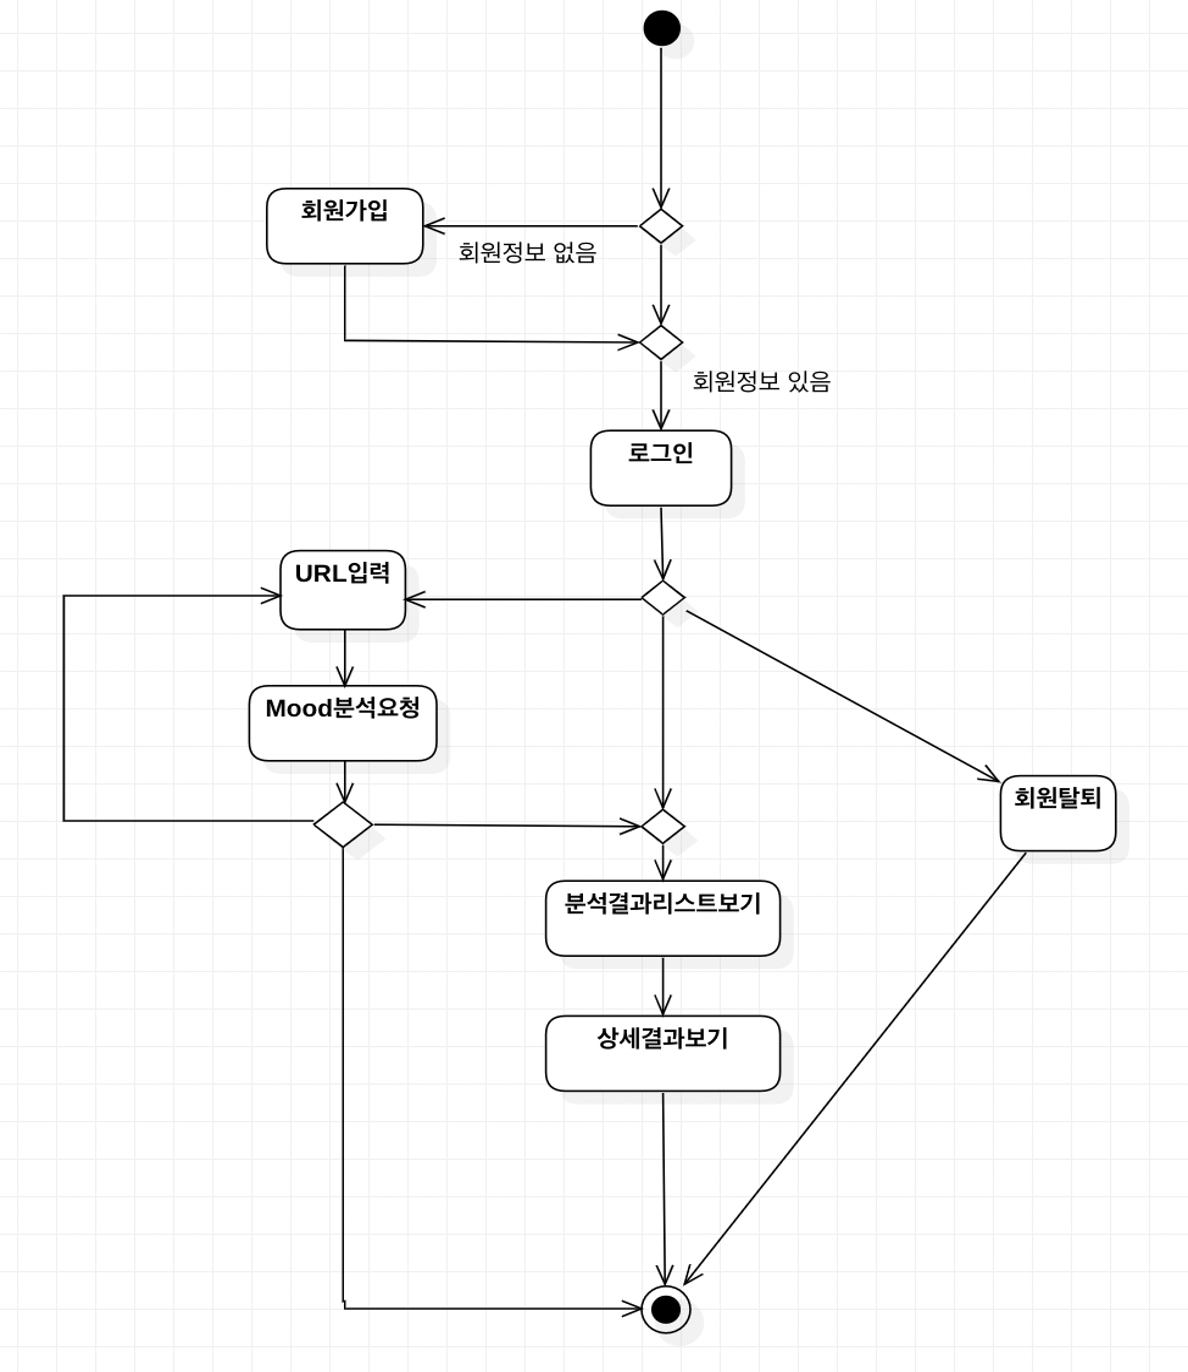
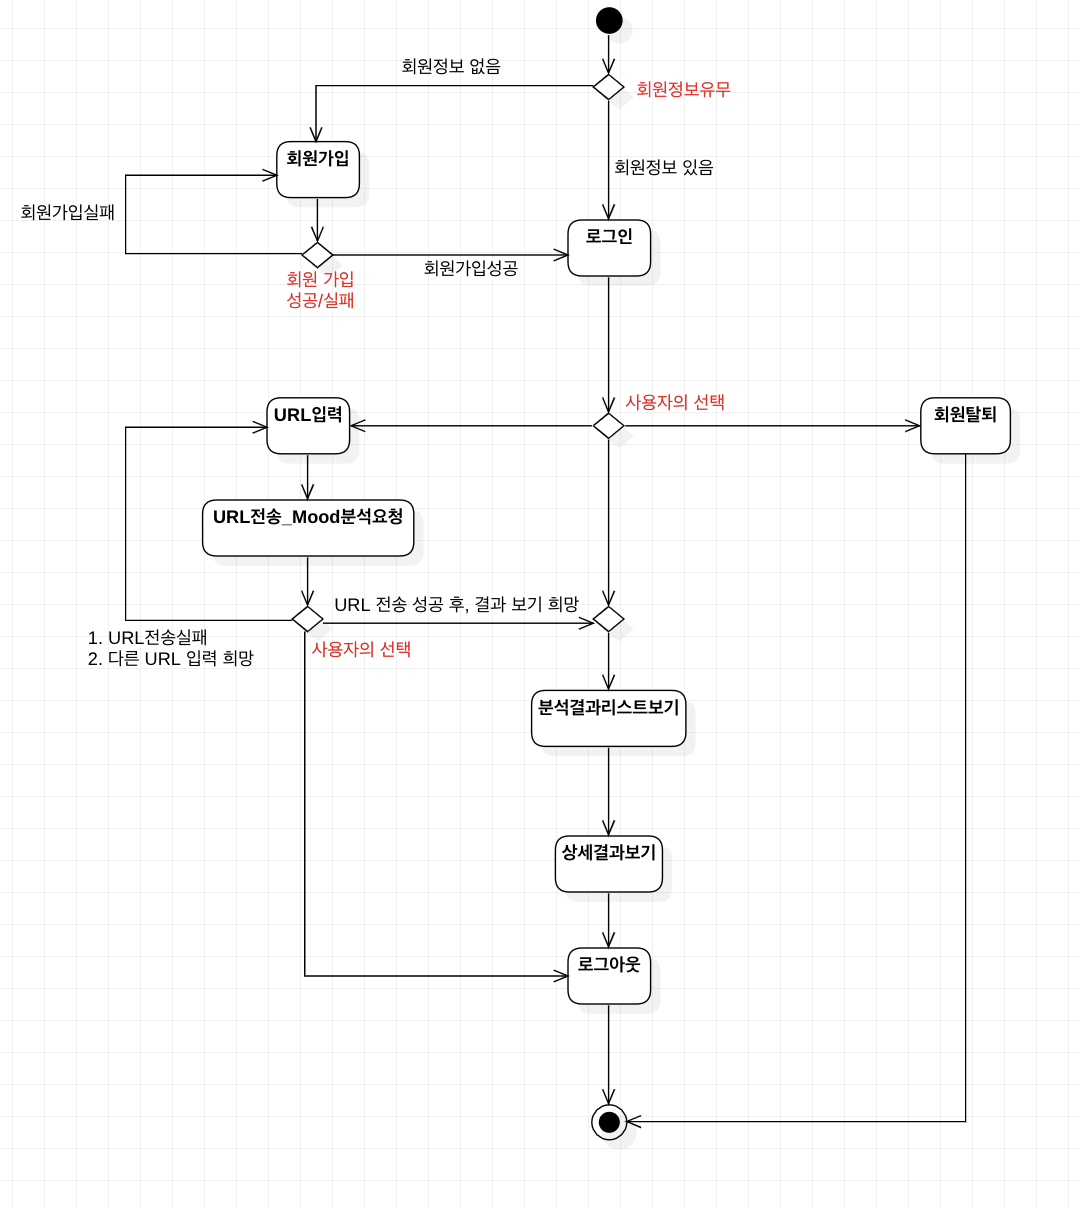
Docs: Replace usecase.png activity.png

diff --git a/README.md b/README.md
@@ -17,15 +17,20 @@
 또한 Mood Decider는 특정 창작자뿐만 아니라 감정을 적고 일상을 적어 공유하는 블로거들에게도 글과 이미지를 분석하여 분위기를 알려줌으로써 블로그의 방향성 및 배경음악 선택 등의 도움을 줄 수 있을 것이라 생각합니다.
 
 #### 👉🏻 UI설계화면
-<img src="./docs/img/design01.png" width="600px" height="600px"  >
 
-<img src="./docs/img/design04.png" width="600px" height="600px"  >
+<img src="./docs/img/design01.png" width="900px" height="600px"  >
+
+<img src="./docs/img/design02.png" width="900px" height="600px"  >
+
+<img src="./docs/img/design03.png" width="900px" height="600px"  >
+
+<img src="./docs/img/design04.png" width="900px" height="600px"  >
 
 #### 👉🏻 Diagram
-<img src="./docs/img//usecase.png" width="600px" height="600px"  >
+
+<img src="./docs/img//usecase.png" width="800px" height="600px"  >
 
 <img src="https://github.com/sooyeon-kr/capstone-2022-23/blob/main/docs/img/activity.png" width="600px" height="600px" >
-
 
 ### 2. 소개 영상
 
@@ -44,9 +49,10 @@
     👉🏻 AI(텍스트 분석 파트)
     👉🏻 Backend
     👉🏻 데이터 셋 구축 및 모델 학습
-    
-    
+
+
 ```
+
 <br/>
 <img src="./docs/img/yongbin.jpeg" align="left" width="220px" height="250px">
 
@@ -59,9 +65,10 @@
     👉🏻 Backend
     👉🏻 데이터 셋 구축 및 모델 학습
     👉🏻 모델 성능 향상
- 
-    
+
+
 ```
+
 <br/>
 <img src="./docs/img/sooyeon.jpg" align="left" width="220px" height="250px">
 
@@ -74,8 +81,8 @@
     👉🏻 Backend
     👉🏻 UI/UX 설계
     👉🏻 프로젝트 문서 관리
-    
-    
+
+
 ```
 
 </br>
